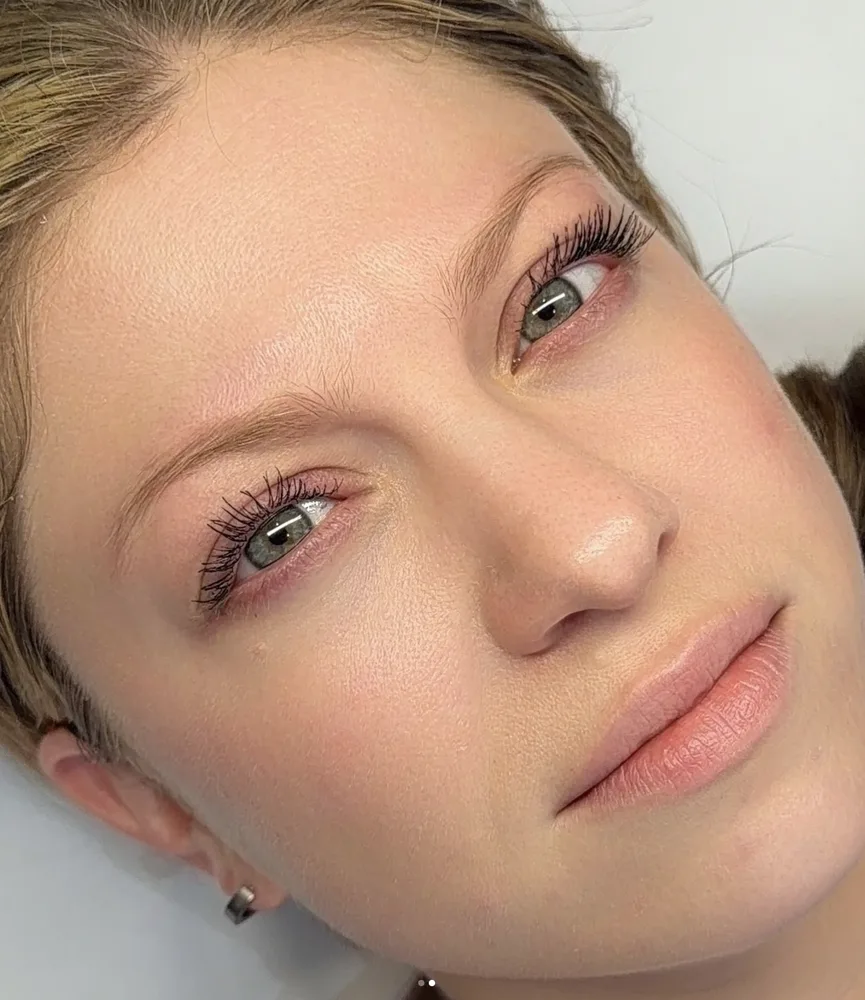
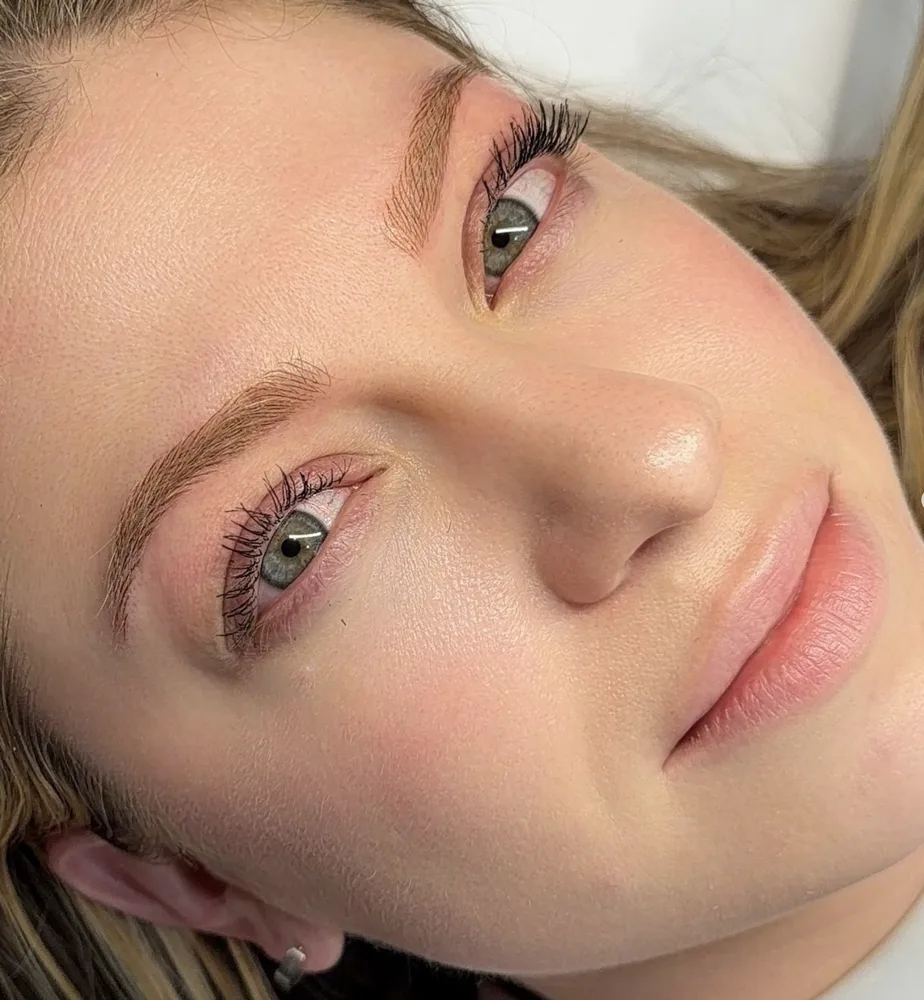
Microblading: o slide 14 era o antes (11.54.31); troca pelo depois (11.54.48)

diff --git a/services/eyebrows/microblading/salem-nh/index.html b/services/eyebrows/microblading/salem-nh/index.html
@@ -106,7 +106,7 @@
 
   <div class="cf" data-coverflow>
     <div class="cf-stage">
-      <ul class="cf-track" role="presentation"><li class="cf-slide" role="group" aria-roledescription="slide" aria-label="1 of 14"><img src="../../../../assets/images/gallery/microblading/microblading-01.webp" alt="Microblading result by Adriana&#39;s Permanent Makeup" width="760" height="950" decoding="async"></li><li class="cf-slide" role="group" aria-roledescription="slide" aria-label="2 of 14"><img src="../../../../assets/images/gallery/microblading/microblading-02.webp" alt="Microblading result by Adriana&#39;s Permanent Makeup" width="760" height="950" decoding="async"></li><li class="cf-slide" role="group" aria-roledescription="slide" aria-label="3 of 14"><img src="../../../../assets/images/gallery/microblading/microblading-03.webp" alt="Microblading result by Adriana&#39;s Permanent Makeup" width="760" height="950" decoding="async"></li><li class="cf-slide" role="group" aria-roledescription="slide" aria-label="4 of 14"><img src="../../../../assets/images/gallery/microblading/microblading-04.webp" alt="Microblading result by Adriana&#39;s Permanent Makeup" width="760" height="950" loading="lazy" decoding="async"></li><li class="cf-slide" role="group" aria-roledescription="slide" aria-label="5 of 14"><img src="../../../../assets/images/gallery/microblading/microblading-05.webp" alt="Microblading result by Adriana&#39;s Permanent Makeup" width="760" height="950" loading="lazy" decoding="async"></li><li class="cf-slide" role="group" aria-roledescription="slide" aria-label="6 of 14"><img src="../../../../assets/images/gallery/microblading/microblading-06.webp" alt="Microblading result by Adriana&#39;s Permanent Makeup" width="760" height="950" loading="lazy" decoding="async"></li><li class="cf-slide" role="group" aria-roledescription="slide" aria-label="7 of 14"><img src="../../../../assets/images/gallery/microblading/microblading-07.webp" alt="Microblading result by Adriana&#39;s Permanent Makeup" width="760" height="950" loading="lazy" decoding="async"></li><li class="cf-slide" role="group" aria-roledescription="slide" aria-label="8 of 14"><img src="../../../../assets/images/gallery/microblading/microblading-08.webp" alt="Microblading result by Adriana&#39;s Permanent Makeup" width="760" height="950" loading="lazy" decoding="async"></li><li class="cf-slide" role="group" aria-roledescription="slide" aria-label="9 of 14"><img src="../../../../assets/images/gallery/microblading/microblading-09.webp" alt="Microblading result by Adriana&#39;s Permanent Makeup" width="760" height="950" loading="lazy" decoding="async"></li><li class="cf-slide" role="group" aria-roledescription="slide" aria-label="10 of 14"><img src="../../../../assets/images/gallery/microblading/microblading-10.webp" alt="Microblading result by Adriana&#39;s Permanent Makeup" width="760" height="950" loading="lazy" decoding="async"></li><li class="cf-slide" role="group" aria-roledescription="slide" aria-label="11 of 14"><img src="../../../../assets/images/gallery/microblading/microblading-11.webp" alt="Microblading before and after by Adriana&#39;s Permanent Makeup" width="973" height="1000" loading="lazy" decoding="async"></li><li class="cf-slide" role="group" aria-roledescription="slide" aria-label="12 of 14"><img src="../../../../assets/images/gallery/microblading/microblading-12.webp" alt="Microblading before and after by Adriana&#39;s Permanent Makeup" width="1000" height="986" loading="lazy" decoding="async"></li><li class="cf-slide" role="group" aria-roledescription="slide" aria-label="13 of 14"><img src="../../../../assets/images/gallery/microblading/microblading-13.webp" alt="Microblading result by Adriana&#39;s Permanent Makeup" width="855" height="1000" loading="lazy" decoding="async"></li><li class="cf-slide" role="group" aria-roledescription="slide" aria-label="14 of 14"><img src="../../../../assets/images/gallery/microblading/microblading-14.webp" alt="Microblading result by Adriana&#39;s Permanent Makeup" width="865" height="1000" loading="lazy" decoding="async"></li></ul>
+      <ul class="cf-track" role="presentation"><li class="cf-slide" role="group" aria-roledescription="slide" aria-label="1 of 14"><img src="../../../../assets/images/gallery/microblading/microblading-01.webp" alt="Microblading result by Adriana&#39;s Permanent Makeup" width="760" height="950" decoding="async"></li><li class="cf-slide" role="group" aria-roledescription="slide" aria-label="2 of 14"><img src="../../../../assets/images/gallery/microblading/microblading-02.webp" alt="Microblading result by Adriana&#39;s Permanent Makeup" width="760" height="950" decoding="async"></li><li class="cf-slide" role="group" aria-roledescription="slide" aria-label="3 of 14"><img src="../../../../assets/images/gallery/microblading/microblading-03.webp" alt="Microblading result by Adriana&#39;s Permanent Makeup" width="760" height="950" decoding="async"></li><li class="cf-slide" role="group" aria-roledescription="slide" aria-label="4 of 14"><img src="../../../../assets/images/gallery/microblading/microblading-04.webp" alt="Microblading result by Adriana&#39;s Permanent Makeup" width="760" height="950" loading="lazy" decoding="async"></li><li class="cf-slide" role="group" aria-roledescription="slide" aria-label="5 of 14"><img src="../../../../assets/images/gallery/microblading/microblading-05.webp" alt="Microblading result by Adriana&#39;s Permanent Makeup" width="760" height="950" loading="lazy" decoding="async"></li><li class="cf-slide" role="group" aria-roledescription="slide" aria-label="6 of 14"><img src="../../../../assets/images/gallery/microblading/microblading-06.webp" alt="Microblading result by Adriana&#39;s Permanent Makeup" width="760" height="950" loading="lazy" decoding="async"></li><li class="cf-slide" role="group" aria-roledescription="slide" aria-label="7 of 14"><img src="../../../../assets/images/gallery/microblading/microblading-07.webp" alt="Microblading result by Adriana&#39;s Permanent Makeup" width="760" height="950" loading="lazy" decoding="async"></li><li class="cf-slide" role="group" aria-roledescription="slide" aria-label="8 of 14"><img src="../../../../assets/images/gallery/microblading/microblading-08.webp" alt="Microblading result by Adriana&#39;s Permanent Makeup" width="760" height="950" loading="lazy" decoding="async"></li><li class="cf-slide" role="group" aria-roledescription="slide" aria-label="9 of 14"><img src="../../../../assets/images/gallery/microblading/microblading-09.webp" alt="Microblading result by Adriana&#39;s Permanent Makeup" width="760" height="950" loading="lazy" decoding="async"></li><li class="cf-slide" role="group" aria-roledescription="slide" aria-label="10 of 14"><img src="../../../../assets/images/gallery/microblading/microblading-10.webp" alt="Microblading result by Adriana&#39;s Permanent Makeup" width="760" height="950" loading="lazy" decoding="async"></li><li class="cf-slide" role="group" aria-roledescription="slide" aria-label="11 of 14"><img src="../../../../assets/images/gallery/microblading/microblading-11.webp" alt="Microblading before and after by Adriana&#39;s Permanent Makeup" width="973" height="1000" loading="lazy" decoding="async"></li><li class="cf-slide" role="group" aria-roledescription="slide" aria-label="12 of 14"><img src="../../../../assets/images/gallery/microblading/microblading-12.webp" alt="Microblading before and after by Adriana&#39;s Permanent Makeup" width="1000" height="986" loading="lazy" decoding="async"></li><li class="cf-slide" role="group" aria-roledescription="slide" aria-label="13 of 14"><img src="../../../../assets/images/gallery/microblading/microblading-13.webp" alt="Microblading result by Adriana&#39;s Permanent Makeup" width="855" height="1000" loading="lazy" decoding="async"></li><li class="cf-slide" role="group" aria-roledescription="slide" aria-label="14 of 14"><img src="../../../../assets/images/gallery/microblading/microblading-14.webp" alt="Microblading result by Adriana&#39;s Permanent Makeup" width="924" height="1000" loading="lazy" decoding="async"></li></ul>
     </div>
     <div class="cf-controls container">
       <button class="cf-nav" type="button" data-cf-prev aria-label="Previous photo">

diff --git a/services/eyebrows/microblading/wilmington-ma/index.html b/services/eyebrows/microblading/wilmington-ma/index.html
@@ -106,7 +106,7 @@
 
   <div class="cf" data-coverflow>
     <div class="cf-stage">
-      <ul class="cf-track" role="presentation"><li class="cf-slide" role="group" aria-roledescription="slide" aria-label="1 of 14"><img src="../../../../assets/images/gallery/microblading/microblading-01.webp" alt="Microblading result by Adriana&#39;s Permanent Makeup" width="760" height="950" decoding="async"></li><li class="cf-slide" role="group" aria-roledescription="slide" aria-label="2 of 14"><img src="../../../../assets/images/gallery/microblading/microblading-02.webp" alt="Microblading result by Adriana&#39;s Permanent Makeup" width="760" height="950" decoding="async"></li><li class="cf-slide" role="group" aria-roledescription="slide" aria-label="3 of 14"><img src="../../../../assets/images/gallery/microblading/microblading-03.webp" alt="Microblading result by Adriana&#39;s Permanent Makeup" width="760" height="950" decoding="async"></li><li class="cf-slide" role="group" aria-roledescription="slide" aria-label="4 of 14"><img src="../../../../assets/images/gallery/microblading/microblading-04.webp" alt="Microblading result by Adriana&#39;s Permanent Makeup" width="760" height="950" loading="lazy" decoding="async"></li><li class="cf-slide" role="group" aria-roledescription="slide" aria-label="5 of 14"><img src="../../../../assets/images/gallery/microblading/microblading-05.webp" alt="Microblading result by Adriana&#39;s Permanent Makeup" width="760" height="950" loading="lazy" decoding="async"></li><li class="cf-slide" role="group" aria-roledescription="slide" aria-label="6 of 14"><img src="../../../../assets/images/gallery/microblading/microblading-06.webp" alt="Microblading result by Adriana&#39;s Permanent Makeup" width="760" height="950" loading="lazy" decoding="async"></li><li class="cf-slide" role="group" aria-roledescription="slide" aria-label="7 of 14"><img src="../../../../assets/images/gallery/microblading/microblading-07.webp" alt="Microblading result by Adriana&#39;s Permanent Makeup" width="760" height="950" loading="lazy" decoding="async"></li><li class="cf-slide" role="group" aria-roledescription="slide" aria-label="8 of 14"><img src="../../../../assets/images/gallery/microblading/microblading-08.webp" alt="Microblading result by Adriana&#39;s Permanent Makeup" width="760" height="950" loading="lazy" decoding="async"></li><li class="cf-slide" role="group" aria-roledescription="slide" aria-label="9 of 14"><img src="../../../../assets/images/gallery/microblading/microblading-09.webp" alt="Microblading result by Adriana&#39;s Permanent Makeup" width="760" height="950" loading="lazy" decoding="async"></li><li class="cf-slide" role="group" aria-roledescription="slide" aria-label="10 of 14"><img src="../../../../assets/images/gallery/microblading/microblading-10.webp" alt="Microblading result by Adriana&#39;s Permanent Makeup" width="760" height="950" loading="lazy" decoding="async"></li><li class="cf-slide" role="group" aria-roledescription="slide" aria-label="11 of 14"><img src="../../../../assets/images/gallery/microblading/microblading-11.webp" alt="Microblading before and after by Adriana&#39;s Permanent Makeup" width="973" height="1000" loading="lazy" decoding="async"></li><li class="cf-slide" role="group" aria-roledescription="slide" aria-label="12 of 14"><img src="../../../../assets/images/gallery/microblading/microblading-12.webp" alt="Microblading before and after by Adriana&#39;s Permanent Makeup" width="1000" height="986" loading="lazy" decoding="async"></li><li class="cf-slide" role="group" aria-roledescription="slide" aria-label="13 of 14"><img src="../../../../assets/images/gallery/microblading/microblading-13.webp" alt="Microblading result by Adriana&#39;s Permanent Makeup" width="855" height="1000" loading="lazy" decoding="async"></li><li class="cf-slide" role="group" aria-roledescription="slide" aria-label="14 of 14"><img src="../../../../assets/images/gallery/microblading/microblading-14.webp" alt="Microblading result by Adriana&#39;s Permanent Makeup" width="865" height="1000" loading="lazy" decoding="async"></li></ul>
+      <ul class="cf-track" role="presentation"><li class="cf-slide" role="group" aria-roledescription="slide" aria-label="1 of 14"><img src="../../../../assets/images/gallery/microblading/microblading-01.webp" alt="Microblading result by Adriana&#39;s Permanent Makeup" width="760" height="950" decoding="async"></li><li class="cf-slide" role="group" aria-roledescription="slide" aria-label="2 of 14"><img src="../../../../assets/images/gallery/microblading/microblading-02.webp" alt="Microblading result by Adriana&#39;s Permanent Makeup" width="760" height="950" decoding="async"></li><li class="cf-slide" role="group" aria-roledescription="slide" aria-label="3 of 14"><img src="../../../../assets/images/gallery/microblading/microblading-03.webp" alt="Microblading result by Adriana&#39;s Permanent Makeup" width="760" height="950" decoding="async"></li><li class="cf-slide" role="group" aria-roledescription="slide" aria-label="4 of 14"><img src="../../../../assets/images/gallery/microblading/microblading-04.webp" alt="Microblading result by Adriana&#39;s Permanent Makeup" width="760" height="950" loading="lazy" decoding="async"></li><li class="cf-slide" role="group" aria-roledescription="slide" aria-label="5 of 14"><img src="../../../../assets/images/gallery/microblading/microblading-05.webp" alt="Microblading result by Adriana&#39;s Permanent Makeup" width="760" height="950" loading="lazy" decoding="async"></li><li class="cf-slide" role="group" aria-roledescription="slide" aria-label="6 of 14"><img src="../../../../assets/images/gallery/microblading/microblading-06.webp" alt="Microblading result by Adriana&#39;s Permanent Makeup" width="760" height="950" loading="lazy" decoding="async"></li><li class="cf-slide" role="group" aria-roledescription="slide" aria-label="7 of 14"><img src="../../../../assets/images/gallery/microblading/microblading-07.webp" alt="Microblading result by Adriana&#39;s Permanent Makeup" width="760" height="950" loading="lazy" decoding="async"></li><li class="cf-slide" role="group" aria-roledescription="slide" aria-label="8 of 14"><img src="../../../../assets/images/gallery/microblading/microblading-08.webp" alt="Microblading result by Adriana&#39;s Permanent Makeup" width="760" height="950" loading="lazy" decoding="async"></li><li class="cf-slide" role="group" aria-roledescription="slide" aria-label="9 of 14"><img src="../../../../assets/images/gallery/microblading/microblading-09.webp" alt="Microblading result by Adriana&#39;s Permanent Makeup" width="760" height="950" loading="lazy" decoding="async"></li><li class="cf-slide" role="group" aria-roledescription="slide" aria-label="10 of 14"><img src="../../../../assets/images/gallery/microblading/microblading-10.webp" alt="Microblading result by Adriana&#39;s Permanent Makeup" width="760" height="950" loading="lazy" decoding="async"></li><li class="cf-slide" role="group" aria-roledescription="slide" aria-label="11 of 14"><img src="../../../../assets/images/gallery/microblading/microblading-11.webp" alt="Microblading before and after by Adriana&#39;s Permanent Makeup" width="973" height="1000" loading="lazy" decoding="async"></li><li class="cf-slide" role="group" aria-roledescription="slide" aria-label="12 of 14"><img src="../../../../assets/images/gallery/microblading/microblading-12.webp" alt="Microblading before and after by Adriana&#39;s Permanent Makeup" width="1000" height="986" loading="lazy" decoding="async"></li><li class="cf-slide" role="group" aria-roledescription="slide" aria-label="13 of 14"><img src="../../../../assets/images/gallery/microblading/microblading-13.webp" alt="Microblading result by Adriana&#39;s Permanent Makeup" width="855" height="1000" loading="lazy" decoding="async"></li><li class="cf-slide" role="group" aria-roledescription="slide" aria-label="14 of 14"><img src="../../../../assets/images/gallery/microblading/microblading-14.webp" alt="Microblading result by Adriana&#39;s Permanent Makeup" width="924" height="1000" loading="lazy" decoding="async"></li></ul>
     </div>
     <div class="cf-controls container">
       <button class="cf-nav" type="button" data-cf-prev aria-label="Previous photo">

diff --git a/services/eyebrows/microblading/index.html b/services/eyebrows/microblading/index.html
@@ -163,7 +163,7 @@
 
   <div class="cf" data-coverflow>
     <div class="cf-stage">
-      <ul class="cf-track" role="presentation"><li class="cf-slide" role="group" aria-roledescription="slide" aria-label="1 of 14"><img src="../../../assets/images/gallery/microblading/microblading-01.webp" alt="Microblading result by Adriana&#39;s Permanent Makeup" width="760" height="950" decoding="async"></li><li class="cf-slide" role="group" aria-roledescription="slide" aria-label="2 of 14"><img src="../../../assets/images/gallery/microblading/microblading-02.webp" alt="Microblading result by Adriana&#39;s Permanent Makeup" width="760" height="950" decoding="async"></li><li class="cf-slide" role="group" aria-roledescription="slide" aria-label="3 of 14"><img src="../../../assets/images/gallery/microblading/microblading-03.webp" alt="Microblading result by Adriana&#39;s Permanent Makeup" width="760" height="950" decoding="async"></li><li class="cf-slide" role="group" aria-roledescription="slide" aria-label="4 of 14"><img src="../../../assets/images/gallery/microblading/microblading-04.webp" alt="Microblading result by Adriana&#39;s Permanent Makeup" width="760" height="950" loading="lazy" decoding="async"></li><li class="cf-slide" role="group" aria-roledescription="slide" aria-label="5 of 14"><img src="../../../assets/images/gallery/microblading/microblading-05.webp" alt="Microblading result by Adriana&#39;s Permanent Makeup" width="760" height="950" loading="lazy" decoding="async"></li><li class="cf-slide" role="group" aria-roledescription="slide" aria-label="6 of 14"><img src="../../../assets/images/gallery/microblading/microblading-06.webp" alt="Microblading result by Adriana&#39;s Permanent Makeup" width="760" height="950" loading="lazy" decoding="async"></li><li class="cf-slide" role="group" aria-roledescription="slide" aria-label="7 of 14"><img src="../../../assets/images/gallery/microblading/microblading-07.webp" alt="Microblading result by Adriana&#39;s Permanent Makeup" width="760" height="950" loading="lazy" decoding="async"></li><li class="cf-slide" role="group" aria-roledescription="slide" aria-label="8 of 14"><img src="../../../assets/images/gallery/microblading/microblading-08.webp" alt="Microblading result by Adriana&#39;s Permanent Makeup" width="760" height="950" loading="lazy" decoding="async"></li><li class="cf-slide" role="group" aria-roledescription="slide" aria-label="9 of 14"><img src="../../../assets/images/gallery/microblading/microblading-09.webp" alt="Microblading result by Adriana&#39;s Permanent Makeup" width="760" height="950" loading="lazy" decoding="async"></li><li class="cf-slide" role="group" aria-roledescription="slide" aria-label="10 of 14"><img src="../../../assets/images/gallery/microblading/microblading-10.webp" alt="Microblading result by Adriana&#39;s Permanent Makeup" width="760" height="950" loading="lazy" decoding="async"></li><li class="cf-slide" role="group" aria-roledescription="slide" aria-label="11 of 14"><img src="../../../assets/images/gallery/microblading/microblading-11.webp" alt="Microblading before and after by Adriana&#39;s Permanent Makeup" width="973" height="1000" loading="lazy" decoding="async"></li><li class="cf-slide" role="group" aria-roledescription="slide" aria-label="12 of 14"><img src="../../../assets/images/gallery/microblading/microblading-12.webp" alt="Microblading before and after by Adriana&#39;s Permanent Makeup" width="1000" height="986" loading="lazy" decoding="async"></li><li class="cf-slide" role="group" aria-roledescription="slide" aria-label="13 of 14"><img src="../../../assets/images/gallery/microblading/microblading-13.webp" alt="Microblading result by Adriana&#39;s Permanent Makeup" width="855" height="1000" loading="lazy" decoding="async"></li><li class="cf-slide" role="group" aria-roledescription="slide" aria-label="14 of 14"><img src="../../../assets/images/gallery/microblading/microblading-14.webp" alt="Microblading result by Adriana&#39;s Permanent Makeup" width="865" height="1000" loading="lazy" decoding="async"></li></ul>
+      <ul class="cf-track" role="presentation"><li class="cf-slide" role="group" aria-roledescription="slide" aria-label="1 of 14"><img src="../../../assets/images/gallery/microblading/microblading-01.webp" alt="Microblading result by Adriana&#39;s Permanent Makeup" width="760" height="950" decoding="async"></li><li class="cf-slide" role="group" aria-roledescription="slide" aria-label="2 of 14"><img src="../../../assets/images/gallery/microblading/microblading-02.webp" alt="Microblading result by Adriana&#39;s Permanent Makeup" width="760" height="950" decoding="async"></li><li class="cf-slide" role="group" aria-roledescription="slide" aria-label="3 of 14"><img src="../../../assets/images/gallery/microblading/microblading-03.webp" alt="Microblading result by Adriana&#39;s Permanent Makeup" width="760" height="950" decoding="async"></li><li class="cf-slide" role="group" aria-roledescription="slide" aria-label="4 of 14"><img src="../../../assets/images/gallery/microblading/microblading-04.webp" alt="Microblading result by Adriana&#39;s Permanent Makeup" width="760" height="950" loading="lazy" decoding="async"></li><li class="cf-slide" role="group" aria-roledescription="slide" aria-label="5 of 14"><img src="../../../assets/images/gallery/microblading/microblading-05.webp" alt="Microblading result by Adriana&#39;s Permanent Makeup" width="760" height="950" loading="lazy" decoding="async"></li><li class="cf-slide" role="group" aria-roledescription="slide" aria-label="6 of 14"><img src="../../../assets/images/gallery/microblading/microblading-06.webp" alt="Microblading result by Adriana&#39;s Permanent Makeup" width="760" height="950" loading="lazy" decoding="async"></li><li class="cf-slide" role="group" aria-roledescription="slide" aria-label="7 of 14"><img src="../../../assets/images/gallery/microblading/microblading-07.webp" alt="Microblading result by Adriana&#39;s Permanent Makeup" width="760" height="950" loading="lazy" decoding="async"></li><li class="cf-slide" role="group" aria-roledescription="slide" aria-label="8 of 14"><img src="../../../assets/images/gallery/microblading/microblading-08.webp" alt="Microblading result by Adriana&#39;s Permanent Makeup" width="760" height="950" loading="lazy" decoding="async"></li><li class="cf-slide" role="group" aria-roledescription="slide" aria-label="9 of 14"><img src="../../../assets/images/gallery/microblading/microblading-09.webp" alt="Microblading result by Adriana&#39;s Permanent Makeup" width="760" height="950" loading="lazy" decoding="async"></li><li class="cf-slide" role="group" aria-roledescription="slide" aria-label="10 of 14"><img src="../../../assets/images/gallery/microblading/microblading-10.webp" alt="Microblading result by Adriana&#39;s Permanent Makeup" width="760" height="950" loading="lazy" decoding="async"></li><li class="cf-slide" role="group" aria-roledescription="slide" aria-label="11 of 14"><img src="../../../assets/images/gallery/microblading/microblading-11.webp" alt="Microblading before and after by Adriana&#39;s Permanent Makeup" width="973" height="1000" loading="lazy" decoding="async"></li><li class="cf-slide" role="group" aria-roledescription="slide" aria-label="12 of 14"><img src="../../../assets/images/gallery/microblading/microblading-12.webp" alt="Microblading before and after by Adriana&#39;s Permanent Makeup" width="1000" height="986" loading="lazy" decoding="async"></li><li class="cf-slide" role="group" aria-roledescription="slide" aria-label="13 of 14"><img src="../../../assets/images/gallery/microblading/microblading-13.webp" alt="Microblading result by Adriana&#39;s Permanent Makeup" width="855" height="1000" loading="lazy" decoding="async"></li><li class="cf-slide" role="group" aria-roledescription="slide" aria-label="14 of 14"><img src="../../../assets/images/gallery/microblading/microblading-14.webp" alt="Microblading result by Adriana&#39;s Permanent Makeup" width="924" height="1000" loading="lazy" decoding="async"></li></ul>
     </div>
     <div class="cf-controls container">
       <button class="cf-nav" type="button" data-cf-prev aria-label="Previous photo">
